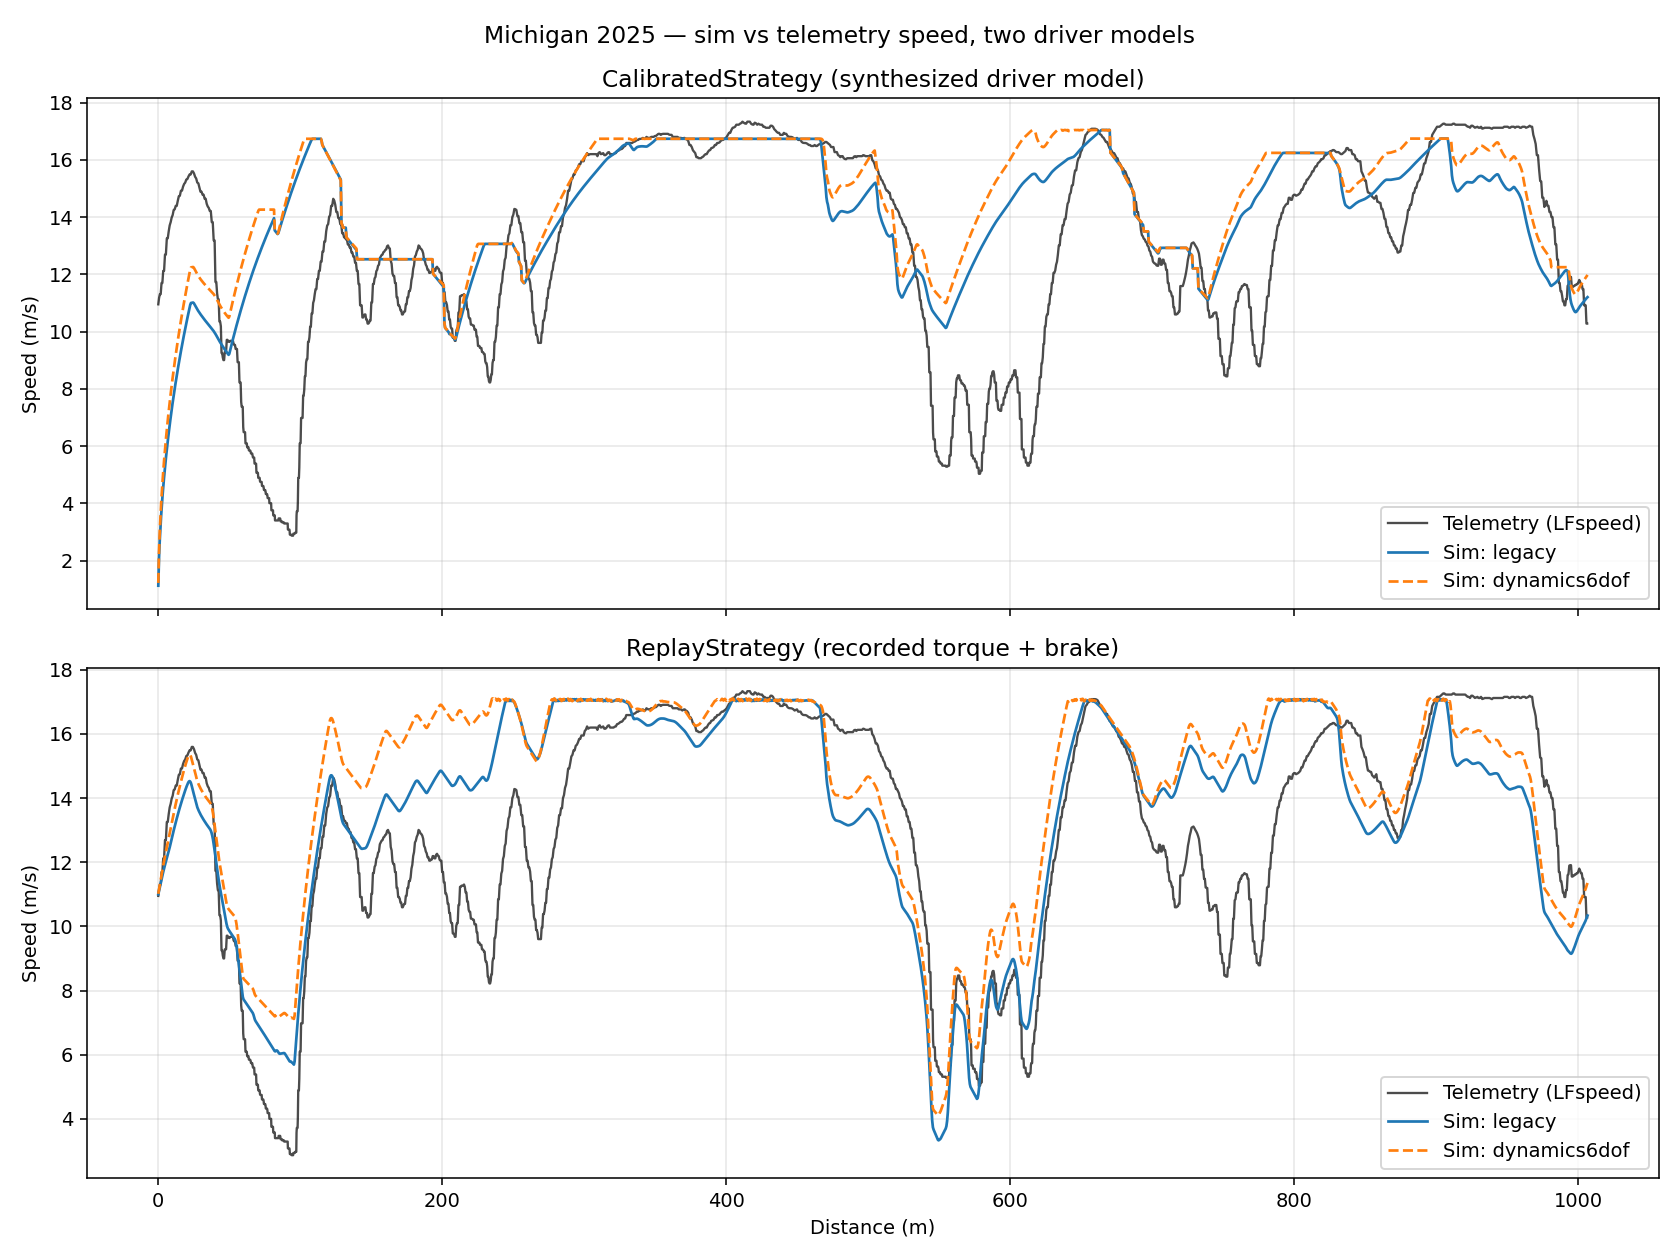
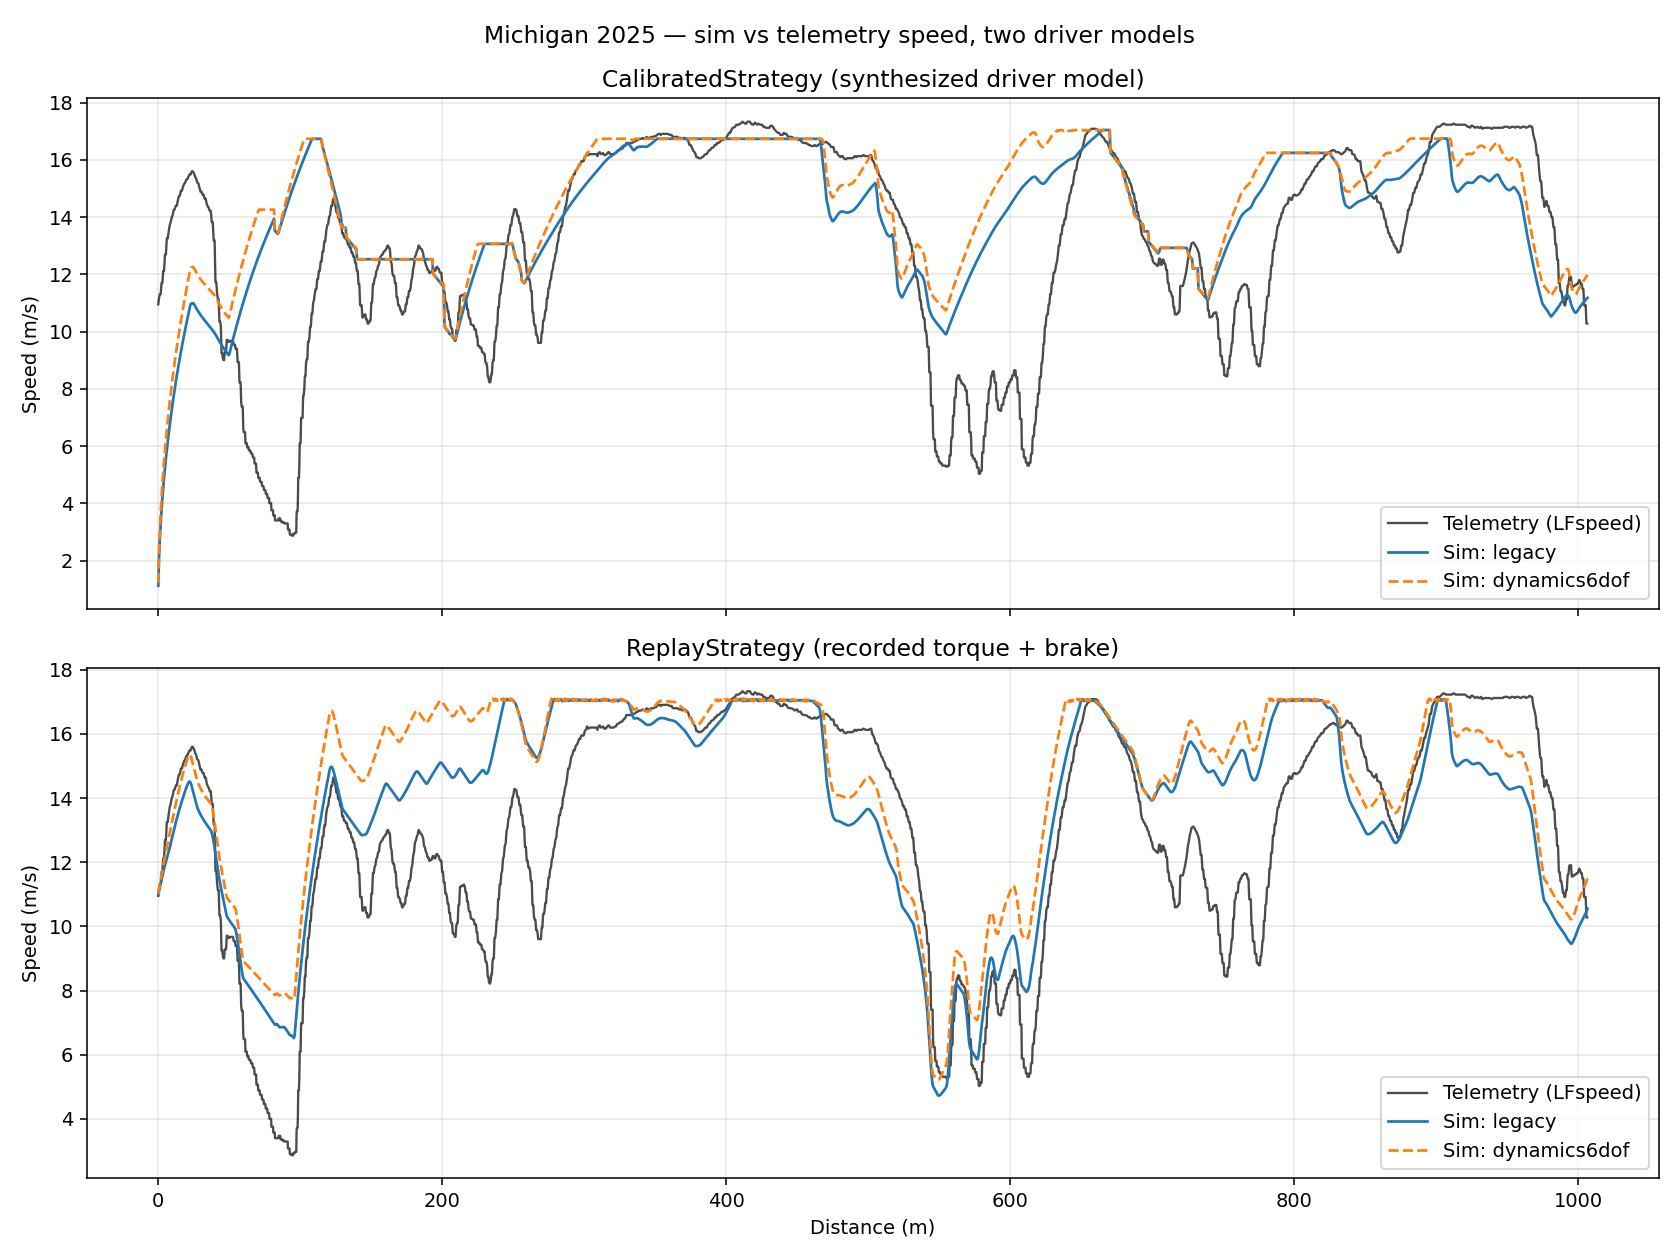
fix(physics): root-cause bugs from full audit
Three physics bugs fixed, all flagged by audit:

1. Brake force was routed through powertrain.regen_force (engine.py:359),
   which caps at motor torque capability (~1.5 kN, ~0.55 g) via field-
   weakening. CT-16EV has NO regen — mechanical hydraulic disc brakes can
   hit 1.5-2 g. Replaced with dynamics.mechanical_brake_force() which
   applies brake_pct × tire-limited max braking force.

2. ReplayStrategy.from_aim_data / from_full_endurance normalized brake_pct
   by the 99th-percentile of observed pressure, so 8.5 bar peak on a
   60-bar system became brake_pct=1.0. That silently inflated replayed
   brake demand 7× over what the driver actually commanded. Replaced
   with physical brake_max_pressure_bar=60 (matches VehicleParams default
   and DSS brake system sheet). Also drop broken-sensor negatives from
   FBrakePressure (stuck at -18.5 bar on this AiM export).

3. VehicleDynamics.m_effective multiplied rotor inertia by gearbox
   efficiency (dynamics.py:94-98). Inertia reflection J_wheel = J·G²/r²
   is pure kinematics — efficiency is torque/power loss, not inertia
   reduction. The *eta was silently making the sim 0.3-0.5% faster in
   acceleration. Fixed and updated test_m_effective_value to expect the
   corrected formula.

Audit also identified bugs that are NOT fixed here but tracked for follow-
up: cornering-drag lateral-force distribution (Bug 3), sprung/unsprung
split in lateral transfer (Bug 4), downforce CoP shift (Bug 5), mid-
[…]

diff --git a/src/fsae_sim/vehicle/cornering_solver.py b/src/fsae_sim/vehicle/cornering_solver.py
@@ -5,6 +5,16 @@ curvature by bisecting over speed and checking whether the four tires
 can collectively produce the required centripetal force.  Roll-induced
 camber changes are modelled so that degressive tire models and load
 transfer effects are captured accurately.
+
+At max cornering speed the car is locally at steady speed, but the
+drive tires still carry a non-zero longitudinal force to balance
+aerodynamic drag + rolling resistance.  That longitudinal demand
+consumes part of each drive tire's friction circle and reduces the
+available lateral grip via the friction ellipse.  Ignoring it (as
+an earlier version of this solver did when ``longitudinal_g=0``)
+produces over-optimistic apex speeds; no single grip_scale can
+simultaneously match straight-line top speed AND corner apex speeds
+against telemetry when the solver does not close this loop.
 """
 
 from __future__ import annotations
@@ -12,7 +22,7 @@ from __future__ import annotations
 import math
 from typing import TYPE_CHECKING
 
-from fsae_sim.physics_constants import GRAVITY_M_S2
+from fsae_sim.physics_constants import AIR_DENSITY_KG_M3, GRAVITY_M_S2
 
 if TYPE_CHECKING:
     from fsae_sim.vehicle.load_transfer import LoadTransferModel
@@ -59,6 +69,10 @@ class CorneringSolver:
         static_camber_rear_rad: float,
         roll_camber_front: float,
         roll_camber_rear: float,
+        cd_a_m2: float = 0.0,
+        cl_a_m2: float = 0.0,
+        rolling_resistance: float = 0.0,
+        rear_wheel_drive: bool = True,
     ) -> None:
         self._tire = tire_model
         self._load_transfer = load_transfer
@@ -67,12 +81,39 @@ class CorneringSolver:
         self._static_camber_rear_rad = static_camber_rear_rad
         self._roll_camber_front = roll_camber_front
         self._roll_camber_rear = roll_camber_rear
+        # Used to compute the self-consistent drive-tire Fx demand at max
+        # cornering speed. Pass 0.0 for all three to fall back to the
+        # pre-close-the-loop pure-lateral solver (over-optimistic).
+        self._cd_a_m2 = float(cd_a_m2)
+        self._cl_a_m2 = float(cl_a_m2)
+        self._rolling_resistance = float(rolling_resistance)
+        self._rear_wheel_drive = bool(rear_wheel_drive)
+
+    def _longitudinal_g_at_speed(self, speed_ms: float) -> float:
+        """Return the self-consistent longitudinal acceleration (g) required
+        for the drive axle to hold ``speed_ms`` against drag + rolling.
+
+        At max cornering speed the car is locally at steady speed so the
+        drivetrain must produce exactly enough Fx to balance resistance.
+        That Fx is routed through the drive tires (rear-only on CT-16EV),
+        consuming part of their friction-circle and reducing available Fy.
+        """
+        v = max(abs(speed_ms), 0.0)
+        # Aero drag
+        drag_n = 0.5 * AIR_DENSITY_KG_M3 * self._cd_a_m2 * v * v
+        # Rolling resistance (scales with normal load = weight + downforce)
+        downforce_n = 0.5 * AIR_DENSITY_KG_M3 * self._cl_a_m2 * v * v
+        normal_n = self._mass_kg * self.GRAVITY + downforce_n
+        rolling_n = self._rolling_resistance * normal_n
+        f_demand_n = drag_n + rolling_n
+        mg = self._mass_kg * self.GRAVITY
+        return f_demand_n / mg if mg > 0.0 else 0.0
 
     def max_cornering_speed(
         self,
         curvature: float,
         mu_scale: float = 1.0,
-        longitudinal_g: float = 0.0,
+        longitudinal_g: float | None = None,
     ) -> float:
         """Find the maximum speed sustainable through a corner.
 
@@ -85,11 +126,18 @@ class CorneringSolver:
                 Only the magnitude matters; sign is ignored.
             mu_scale: Friction scaling factor.  1.0 = nominal grip,
                 < 1.0 = reduced grip (e.g. wet), > 1.0 = extra grip.
-            longitudinal_g: Simultaneous longitudinal acceleration in g-units.
-                Positive = accelerating, negative = braking.  Values with
-                ``|longitudinal_g| < 0.01`` are treated as zero (pure
-                cornering).  Non-zero values invoke the friction-ellipse
-                model, reducing available lateral capacity.
+            longitudinal_g: Optional override for the longitudinal
+                acceleration (g-units) to impose during the ellipse check.
+                When ``None`` (default), the solver computes the
+                self-consistent steady-cornering demand from aero drag and
+                rolling resistance at each candidate speed — that is, the
+                drive axle must produce the Fx that balances resistance at
+                max cornering speed. This is the physically correct default:
+                a car holding max apex speed is dragging air and its drive
+                tires cannot also deliver full lateral. Pass ``0.0``
+                explicitly to revert to the old "pure lateral" behavior
+                (over-optimistic); pass a non-zero value to model entry
+                braking or corner-exit acceleration.
 
         Returns:
             Maximum sustainable speed in m/s.  ``math.inf`` for straights.
@@ -110,7 +158,14 @@ class CorneringSolver:
             if (v_high - v_low) <= tol:
                 break
             v_mid = (v_low + v_high) / 2.0
-            if self._can_sustain(v_mid, abs_curvature, mu_scale, longitudinal_g):
+            # Self-consistent longitudinal_g at v_mid unless explicitly
+            # overridden by the caller.
+            long_g = (
+                longitudinal_g
+                if longitudinal_g is not None
+                else self._longitudinal_g_at_speed(v_mid)
+            )
+            if self._can_sustain(v_mid, abs_curvature, mu_scale, long_g):
                 v_low = v_mid
             else:
                 v_high = v_mid

diff --git a/src/fsae_sim/driver/strategies.py b/src/fsae_sim/driver/strategies.py
@@ -96,8 +96,21 @@ class ReplayStrategy(DriverStrategy):
         lap_start_idx: int,
         lap_end_idx: int,
         lap_distance_m: float,
+        brake_max_pressure_bar: float = 60.0,
     ) -> ReplayStrategy:
-        """Build single-lap replay from a slice of AiM DataFrame."""
+        """Build single-lap replay from a slice of AiM DataFrame.
+
+        ``brake_max_pressure_bar`` is the brake system's lockup / peak-
+        effort pressure at the master cylinder — the pressure that
+        corresponds to ``brake_pct=1.0`` (tire-limited deceleration).
+        For CT-16EV this is ~60 bar per the DSS brake-system sheet.
+
+        Previously this used a 99th-percentile normalization of observed
+        pressure, which silently saturated brake_pct when the driver used
+        only a fraction of the hardware's capability (e.g. 8.5 bar peak on
+        a 60-bar system was normalized to brake_pct=1.0, inflating replay
+        brake demand 7x above what the driver actually commanded).
+        """
         lap = aim_df.iloc[lap_start_idx:lap_end_idx].copy()
         dist = lap["Distance on GPS Speed"].values - lap["Distance on GPS Speed"].values[0]
 
@@ -106,8 +119,10 @@ class ReplayStrategy(DriverStrategy):
         brake_raw = np.maximum(
             lap["FBrakePressure"].values, lap["RBrakePressure"].values,
         )
-        bmax = max(np.percentile(brake_raw[brake_raw > 0], 99), 1.0) if np.any(brake_raw > 0) else 1.0
-        brake = np.clip(brake_raw / bmax, 0.0, 1.0)
+        # Drop broken-sensor negative values (FBrakePressure on this dataset
+        # sits at -18.5 bar for the whole lap).
+        brake_raw = np.where(brake_raw > 0.0, brake_raw, 0.0)
+        brake = np.clip(brake_raw / brake_max_pressure_bar, 0.0, 1.0)
 
         # S18: preserve regen. Previously clipped to [0, +limit] which
         # silently deleted negative torque commands (coast-regen). Keep
@@ -127,14 +142,16 @@ class ReplayStrategy(DriverStrategy):
         aim_df: "pd.DataFrame",
         lap_distance_m: float,
         min_speed_kmh: float = 5.0,
+        brake_max_pressure_bar: float = 60.0,
     ) -> ReplayStrategy:
         """Build replay from the full AiM endurance recording.
 
         Filters out stopped periods (driver change, stalls) to produce
         a clean distance-indexed driving profile.  Indexes by cumulative
-        distance rather than wrapping per-lap.
+        distance rather than wrapping per-lap. Brake pressure normalization
+        matches ``from_aim_data``: physical ``brake_max_pressure_bar``, not
+        an observed-percentile.
         """
-        # Filter to moving samples to cut driver change and stopped periods
         moving = aim_df["GPS Speed"].values > min_speed_kmh
         clean = aim_df[moving].copy()
 
@@ -144,8 +161,8 @@ class ReplayStrategy(DriverStrategy):
         brake_raw = np.maximum(
             clean["FBrakePressure"].values, clean["RBrakePressure"].values,
         )
-        bmax = max(np.percentile(brake_raw[brake_raw > 0], 99), 1.0) if np.any(brake_raw > 0) else 1.0
-        brake = np.clip(brake_raw / bmax, 0.0, 1.0)
+        brake_raw = np.where(brake_raw > 0.0, brake_raw, 0.0)
+        brake = np.clip(brake_raw / brake_max_pressure_bar, 0.0, 1.0)
 
         # S18: preserve regen (see from_aim_data).
         inverter_torque_limit = 85.0

diff --git a/src/fsae_sim/sim/engine.py b/src/fsae_sim/sim/engine.py
@@ -154,6 +154,18 @@ class SimulationEngine:
                 math.radians(tire_cfg.static_camber_rear_deg),
                 susp_cfg.roll_camber_front_deg_per_deg,
                 susp_cfg.roll_camber_rear_deg_per_deg,
+                # Close the loop: give the solver the aero + rolling params
+                # so it can compute drive-tire Fx demand self-consistently
+                # at each candidate speed. Without this the ellipse check
+                # defaults to pure-lateral, and no grip_scale can match
+                # both straight-line and apex speeds against telemetry.
+                cd_a_m2=(
+                    vehicle.vehicle.drag_coefficient
+                    * vehicle.vehicle.frontal_area_m2
+                ),
+                cl_a_m2=vehicle.vehicle.downforce_coefficient,
+                rolling_resistance=vehicle.vehicle.rolling_resistance,
+                rear_wheel_drive=True,
             )
             self.dynamics = VehicleDynamics(
                 vehicle.vehicle, tire_model, load_transfer, cornering_solver,
@@ -332,21 +344,22 @@ class SimulationEngine:
                     regen_f = 0.0
                 elif cmd.action == ControlAction.BRAKE:
                     # CT-16EV uses MECHANICAL brakes only — brake pedal
-                    # drives hydraulic pressure to the friction pads.
-                    # We use ``powertrain.regen_force`` here ONLY as a
-                    # convenient brake-pedal → decel-force mapping
-                    # (which happens to match real brake-system design:
-                    # peak brake force sized similar to peak motor
-                    # torque).  The force is applied as a DECELERATION
-                    # only; the electrical side is intentionally
-                    # disabled via motor_torque = 0 below, so no
-                    # phantom regen accumulates.  Regen is reserved
-                    # for strategies that command negative motor
-                    # torque explicitly (2025 telemetry never does).
+                    # drives hydraulic pressure to the friction pads. The
+                    # brake force is scaled by pedal% up to the tire limit
+                    # (all four wheels contributing, computed at the current
+                    # speed with its aero downforce).
+                    #
+                    # Prior implementation routed this through
+                    # ``powertrain.regen_force`` which caps brake force at
+                    # motor torque capability (~1.5 kN, ~0.55 g on CT-16EV),
+                    # but real hydraulic discs can hit 1.5-2 g. Using
+                    # ``mechanical_brake_force`` lets the tire limit bind
+                    # instead of a non-existent regen torque ceiling.
                     drive_f = 0.0
-                    brake_force = abs(self.powertrain.regen_force(cmd.brake_pct, speed))
-                    max_brake = self.dynamics.max_braking_force(speed)
-                    regen_f = -min(brake_force, max_brake)
+                    brake_force = self.dynamics.mechanical_brake_force(
+                        cmd.brake_pct, speed,
+                    )
+                    regen_f = -brake_force
                 else:  # COAST
                     drive_f = 0.0
                     regen_f = 0.0

diff --git a/src/fsae_sim/dynamics6dof/backend.py b/src/fsae_sim/dynamics6dof/backend.py
@@ -244,20 +244,46 @@ class FastestLapDynamicsBackend:
     def max_cornering_speed(
         self, curvature: float, grip_factor: float = 1.0,
     ) -> float:
+        """Maximum sustainable cornering speed through ``curvature`` (1/m).
+
+        Physics: at max corner speed the car holds steady v, so the drive
+        axle must produce Fx equal to aero drag + rolling resistance. That
+        drive-tire Fx consumes part of the rear-tire friction circle; we
+        apply the standard elliptic reduction
+
+            Fy_available = Fy_peak · sqrt(1 - (Fx/Fx_peak)²)
+
+        per drive tire. Front (non-drive) tires retain full lateral peak.
+        Without this reduction the solver is over-optimistic and no single
+        grip_factor can simultaneously match straight-line and apex speeds
+        against telemetry.
+        """
         kappa = abs(curvature)
         if kappa < 1e-6:
             return float("inf")
 
-        mg = self.params.mass_kg * GRAVITY
-
-        # Bisection on v. At each v: available lateral = sum of 4 corner peak Fy
-        # under static Fz (with aero downforce). Vehicle demands m·v²·κ.
         def lateral_excess(v: float) -> float:
             front_fz, rear_fz = self._static_corner_loads(v)
-            peak_fy_total = (
-                2.0 * float(self.corner.model.peak_lateral_force(front_fz))
-                + 2.0 * float(self.corner.model.peak_lateral_force(rear_fz))
-            ) * grip_factor
+            # Non-drive (front) tires: pure lateral peak.
+            fy_front = 2.0 * float(
+                self.corner.model.peak_lateral_force(front_fz)
+            )
+            # Drive (rear) tires: elliptic reduction by Fx demand.
+            fx_demand_total = self.drag_force(v) + self.rolling_resistance_force(v)
+            fx_per_rear = 0.5 * fx_demand_total  # RWD, split evenly
+            fx_peak_rear = float(
+                self.corner.model.peak_longitudinal_force(rear_fz)
+            )
+            fy_peak_rear = float(
+                self.corner.model.peak_lateral_force(rear_fz)
+            )
+            if fx_peak_rear > 1e-6:
+                fx_ratio = min(fx_per_rear / fx_peak_rear, 1.0)
+            else:
+                fx_ratio = 1.0
+            fy_per_rear = fy_peak_rear * math.sqrt(max(0.0, 1.0 - fx_ratio * fx_ratio))
+            fy_rear = 2.0 * fy_per_rear
+            peak_fy_total = (fy_front + fy_rear) * grip_factor
             required = self.params.mass_kg * v * v * kappa
             return peak_fy_total - required
 
@@ -265,7 +291,6 @@ class FastestLapDynamicsBackend:
         if lateral_excess(lo) < 0:
             return 0.0
         if lateral_excess(hi) > 0:
-            # Even at hi the tires can deliver the needed lateral -> return hi
             return hi
         for _ in range(40):
             mid = 0.5 * (lo + hi)

diff --git a/tests/test_dynamics.py b/tests/test_dynamics.py
@@ -275,15 +275,17 @@ class TestEffectiveInertia:
         """Verify m_effective calculation for CT-16EV.
 
         Uses TIRE_RADIUS_M = 0.2042 from PowertrainModel.
-        J_eff = 0.06 * 3.6363^2 * 0.92 + 4 * 0.3 = 1.930 kg*m^2
-        m_eff = 288 + 1.930 / 0.2042^2 = 288 + 46.28 = 334.28 kg
+        Inertia reflection is pure kinematics — no eta multiplier on rotor
+        inertia. Gearbox efficiency is a torque/power loss, not an inertia
+        reduction.
+            J_eff = 0.06 * 3.6363^2 + 4 * 0.3 = 0.793 + 1.2 = 1.993 kg·m^2
+            m_eff = 288 + 1.993 / 0.2042^2 = 288 + 47.79 = 335.79 kg
         """
         from fsae_sim.vehicle.powertrain_model import PowertrainModel
         dyn = VehicleDynamics(ct16ev_params, powertrain_config=ct16ev_powertrain)
         G = 3.6363
-        eta = 0.92
         r = PowertrainModel.TIRE_RADIUS_M
-        J_eff = 0.06 * G**2 * eta + 4 * 0.3
+        J_eff = 0.06 * G**2 + 4 * 0.3  # NOTE: no eta — pure kinematics
         expected = ct16ev_params.mass_kg + J_eff / r**2
         assert dyn.m_effective == pytest.approx(expected, rel=1e-4)
 

diff --git a/src/fsae_sim/vehicle/dynamics.py b/src/fsae_sim/vehicle/dynamics.py
@@ -90,9 +90,16 @@ class VehicleDynamics:
             else:
                 tire_radius = 0.2042  # Hoosier 16x7.5-10 UNLOADED_RADIUS fallback
             G = powertrain_config.gear_ratio
-            eta = powertrain_config.drivetrain_efficiency
+            # Inertia reflection to the wheel is pure kinematics:
+            #     J_reflected_at_wheel = J_rotor * G^2
+            # The gearbox efficiency does NOT reduce reflected inertia —
+            # efficiency is a torque/power loss, and the rotor still has
+            # to be angularly accelerated at G * wheel_omega every instant
+            # regardless of how lossy the path between them is.
+            # The old code multiplied by eta (~0.95) which silently made
+            # the car 0.3-0.5% faster in acceleration. Pure bug.
             j_eff = (
-                vehicle.rotor_inertia_kg_m2 * G * G * eta
+                vehicle.rotor_inertia_kg_m2 * G * G
                 + 4 * vehicle.wheel_inertia_kg_m2
             )
             self.m_effective: float = vehicle.mass_kg + j_eff / (tire_radius * tire_radius)
